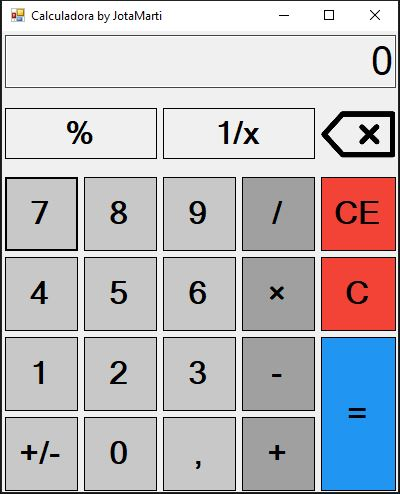
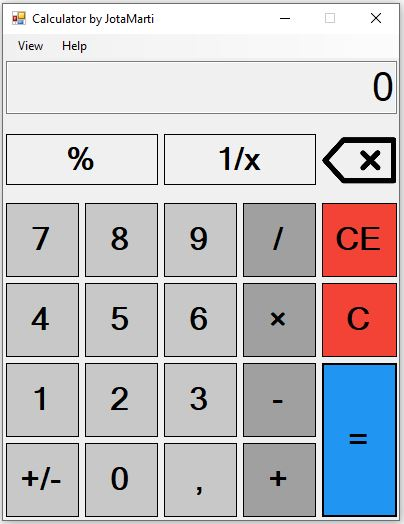
Final version for GitHub

diff --git a/README.md b/README.md
@@ -9,6 +9,6 @@ This is a project in course for the class of "Diseño de interfaces", I will be 
 - **Stage 4**: Features to add to our calculator: Menu that allows you to switch from standard mode to scientific mode (e.g. View --> Standard | Scientific). In scientific mode, we'll implement the following functions: x^2, x^3, x^y, n!.
 - **Stage 5**: Features to add to our calculator: Menu that allows to display a help window. Implement the help window. Redesign your calculator (if you think it's necessary) and apply what you learned during its development to improve written code.
 
-Right now I have finished Stage 3 and the calculator looks like this:
+Right now I have finished Stage 5 and the calculator looks like this:
 
 ![](https://raw.githubusercontent.com/JotaMarti/calculator/master/calculator.JPG)
